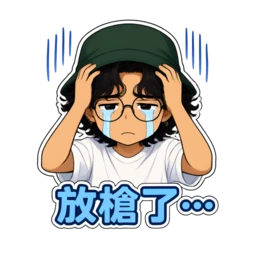
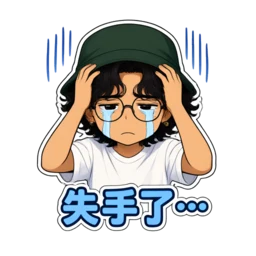
feat(mahjong): 貼圖修錯字、去掉意思重複，玩家可丟已加好友同學的貼圖
- 漢克「編譯過啦！」「精準切音！」重畫：原圖「譯」畫成「繹」、「準」畫成異體「凖」
- 理查 gun／ting／other 改「失手了…」「就差一張！」「下把換我！」，不再跟彥霖重複
- 蓋瑞 gun／ting／call／other 改「跑不動了…」「調好音了！」「輕輕一撥！」「配速不錯喔！」
- 貼圖面板：彥霖一排，再加每位已加好友同學一排；觀戰者也能開
- 連線只傳文字，reactSticker 用 stickerByText 換回同學貼圖，舊版客端顯示文字
- 新增測試：所有貼圖文字不得重複、文字換得回同一張圖；規格同步

diff --git a/src/systems/mahjong/MahjongScene.js b/src/systems/mahjong/MahjongScene.js
@@ -23,7 +23,7 @@ import {
 import { DiceSet } from './Dice.js';
 import { normalizeRoomCode } from './Net.js';
 import { SPECTATE_REACTS, reactSticker } from './P2P.js';
-import { npcReactions, npcSticker } from './NpcStickers.js';
+import { npcReactions, npcSticker, NPC_STICKERS, NPC_STICKER_KINDS } from './NpcStickers.js';
 import { createCharacter, randomStudent } from '../../entities/Character.js';
 import { makeOutfitFigure } from '../Outfits.js';
 
@@ -683,7 +683,7 @@ export class MahjongScene {
       <div class="mj-spec-tags"></div><div class="mj-bubbles"></div>
       <div class="mj-acts"></div><div class="mj-hint"></div><div class="mj-res hidden"></div>
       <div class="mj-pop hidden"><img alt=""><b></b></div><div class="mj-say"></div><div class="mj-wait hidden"></div><div class="mj-timer hidden"></div><div class="mj-zoom hidden"></div><div class="mj-center hidden"></div>
-      <div class="mj-side"><div class="mj-info"></div><div class="mj-side-btns"><button class="mj-view" data-a='{"type":"view"}'></button><button class="mj-stk-btn hidden" data-a='{"type":"stickers"}' title="丟貼圖（T）" aria-label="丟貼圖"><img src="${SPECTATE_REACTS[0].img}" alt=""></button><button class="mj-help-btn" data-a='{"type":"help"}' title="操作說明（I）" aria-label="操作說明">i</button></div><div class="mj-stk hidden">${SPECTATE_REACTS.map((r) => `<button class="mj-react" title="${r.label}" data-a='${JSON.stringify({ type: 'sticker', text: r.text })}'><img src="${r.img}" alt="${r.label}"></button>`).join('')}</div><div class="mj-mp-bar hidden"></div></div>
+      <div class="mj-side"><div class="mj-info"></div><div class="mj-side-btns"><button class="mj-view" data-a='{"type":"view"}'></button><button class="mj-stk-btn hidden" data-a='{"type":"stickers"}' title="丟貼圖（T）" aria-label="丟貼圖"><img src="${SPECTATE_REACTS[0].img}" alt=""></button><button class="mj-help-btn" data-a='{"type":"help"}' title="操作說明（I）" aria-label="操作說明">i</button></div><div class="mj-stk hidden"></div><div class="mj-mp-bar hidden"></div></div>
       <div class="mj-help hidden"></div>
       <div class="mj-hand hidden"></div>
       <div class="mj-rotate hidden"><div><b>📱↻</b><p>把手機轉橫的打，牌比較大</p><button data-a='{"type":"rotateOk"}'>直的也沒關係</button></div></div>`;
@@ -2741,13 +2741,42 @@ export class MahjongScene {
     }
   }
 
-  // ---------------- 打牌中丟貼圖（彥霖貼圖，P2P.js 的 SPECTATE_REACTS） ----------------
-  // 坐在桌上打牌的人（單人模式，或多人模式上桌的人）才有；觀戰者用右上角那排表情（_mpBarHud）
+  // ---------------- 丟貼圖（彥霖貼圖＋已加好友同學的貼圖，NpcStickers.js） ----------------
+  // 上桌打牌的人和觀戰者都有（觀戰者另外還有右上角那排彥霖表情，_mpBarHud）
   _canSticker() {
-    return !!this.e && !this.intro && !this.menu && !this.lobby && !this.mj.sess?.spectating;
+    return !!this.e && !this.intro && !this.menu && !this.lobby;
+  }
+  // 面板每次打開時重畫：彥霖一排，再來每位已加好友（src/ui/phone/Friends.js）的同學一排
+  _stickerRows() {
+    const btn = (text, img, label) =>
+      `<button class="mj-react" title="${esc(label)}" data-a='${JSON.stringify({ type: 'sticker', text })}'><img src="${img}" alt="${esc(label)}" loading="lazy"></button>`;
+    const row = (name, btns) =>
+      `<div class="mj-stk-row"><span>${esc(name)}</span><div>${btns.join('')}</div></div>`;
+    const friends = this.g.friends?.added;
+    const rows = [
+      row(
+        '彥霖',
+        SPECTATE_REACTS.map((r) => btn(r.text, r.img, r.label))
+      ),
+    ];
+    for (const r of this.mj.roster || []) {
+      if (!friends?.has?.(r.id) || !NPC_STICKERS[r.id]) continue;
+      rows.push(
+        row(
+          r.name,
+          NPC_STICKER_KINDS.map((k) => {
+            const st = npcSticker(r.id, k);
+            return btn(st.label, st.img, st.label);
+          })
+        )
+      );
+    }
+    return rows.join('');
   }
   _stickerMenu(open = this.$('.mj-stk').classList.contains('hidden')) {
-    this.$('.mj-stk').classList.toggle('hidden', !open);
+    const el = this.$('.mj-stk');
+    if (open) el.innerHTML = this._stickerRows();
+    el.classList.toggle('hidden', !open);
     this.$('.mj-stk-btn').classList.toggle('on', open);
   }
   _sendSticker(text) {

diff --git a/src/systems/mahjong/NpcStickers.js b/src/systems/mahjong/NpcStickers.js
@@ -1,6 +1,8 @@
 // 單人模式：一起打牌的同學在牌局中會自己跳表情貼圖（assets/mahjong/npc/<id>-<kind>.webp，
 // 家裡 GPU 的 Qwen-Image 照各自的 3D 外觀畫的，每個人一組、文字照個性寫）。
 // kind：hu 自己胡、gun 自己放槍、ting 剛聽牌、call 碰／槓、other 別人胡（不是自己放的槍）
+// 所有貼圖（含彥霖那 5 張，P2P.js 的 SPECTATE_REACTS）的文字都不能重複，意思也盡量不要太像：
+// 玩家可以丟已加好友同學的貼圖，連線時只傳文字，收到的人靠文字換回是哪張圖（stickerByText）
 export const NPC_STICKER_KINDS = ['hu', 'gun', 'ting', 'call', 'other'];
 
 export const NPC_STICKERS = {
@@ -46,13 +48,13 @@ export const NPC_STICKERS = {
     call: '變走囉！',
     other: '幫你記帳！',
   },
-  richard: { hu: '胡了！', gun: '放槍了…', ting: '聽牌！', call: '碰！', other: '好牌！' },
+  richard: { hu: '胡了！', gun: '失手了…', ting: '就差一張！', call: '碰！', other: '下把換我！' },
   garry: {
     hu: '承讓囉！',
-    gun: '哎呀放槍了',
-    ting: '我聽牌囉！',
-    call: '這張先收囉',
-    other: '打得漂亮！',
+    gun: '跑不動了…',
+    ting: '調好音了！',
+    call: '輕輕一撥！',
+    other: '配速不錯喔！',
   },
 };
 
@@ -60,6 +62,14 @@ export const NPC_STICKERS = {
 export function npcSticker(id, kind) {
   const label = NPC_STICKERS[id]?.[kind];
   return label ? { img: `assets/mahjong/npc/${id}-${kind}.webp`, label } : null;
+}
+
+// 文字 → 同學貼圖（連線收到的貼圖、玩家自己丟的同學貼圖都靠這個換回圖）；不認得就 null
+export function stickerByText(text) {
+  for (const id in NPC_STICKERS)
+    for (const k of NPC_STICKER_KINDS)
+      if (NPC_STICKERS[id][k] === text) return { id: `${id}-${k}`, text, ...npcSticker(id, k) };
+  return null;
 }
 
 // 一個牌局事件該讓哪些座位跳哪種貼圖：回傳 [{ seat, kind, delay }]（delay 秒）。

diff --git a/tests/unit/mahjong-npc-stickers.test.js b/tests/unit/mahjong-npc-stickers.test.js
@@ -7,7 +7,9 @@ import {
   NPC_STICKER_KINDS,
   npcReactions,
   npcSticker,
+  stickerByText,
 } from '../../src/systems/mahjong/NpcStickers.js';
+import { SPECTATE_REACTS, reactSticker } from '../../src/systems/mahjong/P2P.js';
 
 const ids = [null, 'zz', 'houshe', 'jianyu'];
 const always = () => 0; // rnd：每個機率都會中
@@ -22,6 +24,21 @@ describe('同學表情貼圖', () => {
         expect(fs.existsSync(path.resolve(st.img))).toBe(true);
       }
     }
+  });
+
+  it('所有貼圖文字都不重複（含彥霖的），連線傳文字換得回同一張圖', () => {
+    const all = [
+      ...SPECTATE_REACTS.flatMap((r) => [r.text, r.label]),
+      ...Object.values(NPC_STICKERS).flatMap((set) => Object.values(set)),
+    ];
+    expect(new Set(all).size).toBe(all.length);
+    for (const id in NPC_STICKERS)
+      for (const k of NPC_STICKER_KINDS) {
+        const st = npcSticker(id, k);
+        expect(stickerByText(st.label)?.img).toBe(st.img);
+        expect(reactSticker(st.label)?.img).toBe(st.img);
+      }
+    expect(stickerByText('隨便講講')).toBeNull();
   });
 
   it('胡牌：胡的人跳「胡」、放槍的人跳「放槍」、其他同學可能跳「別人胡」', () => {

diff --git a/src/systems/mahjong/P2P.js b/src/systems/mahjong/P2P.js
@@ -12,6 +12,7 @@ import {
   unrotateSeat,
 } from './Net.js';
 import { normalizeLook } from '../OutfitData.js';
+import { stickerByText } from './NpcStickers.js';
 
 const APP_ID = 'yanlin-gta-mahjong-v1';
 const peerIdOf = (ctx) => (typeof ctx === 'string' ? ctx : ctx?.peerId || null);
@@ -25,7 +26,9 @@ export const SPECTATE_REACTS = [
   { id: 'lol', text: '😂 笑死', label: '笑死' },
   { id: 'pray', text: '🙏 自摸！', label: '自摸！' },
 ].map((r) => ({ ...r, img: `assets/mahjong/react-${r.id}.webp` }));
-export const reactSticker = (text) => SPECTATE_REACTS.find((r) => r.text === text) || null;
+// 同學貼圖（玩家丟已加好友同學的貼圖）傳的是貼圖上的字，一樣換得回圖；舊版客端收到就顯示文字
+export const reactSticker = (text) =>
+  SPECTATE_REACTS.find((r) => r.text === text) || stickerByText(text);
 
 // 封裝 trystero@0.27 MessageAction（{ send(data, { target }), onMessage(cb(data, ctx)) }）
 function bindAction(room, name) {

diff --git a/src/styles/style.css b/src/styles/style.css
@@ -8701,17 +8701,41 @@ body.mahjong #dialog {
 #mjUI .mj-stk {
   pointer-events: auto;
   display: flex;
+  flex-direction: column;
   gap: 4px;
-  justify-content: flex-end;
   margin-top: 6px;
   padding: 6px;
+  max-height: min(60vh, 420px);
+  overflow-y: auto;
   border-radius: 14px;
   background: rgba(0, 0, 0, 0.55);
 }
+#mjUI .mj-stk.hidden {
+  display: none;
+}
+/* 一位一排：左邊名字，右邊 5 張（彥霖＋已加好友的同學） */
+#mjUI .mj-stk-row {
+  display: flex;
+  align-items: center;
+  gap: 6px;
+  justify-content: flex-end;
+}
+#mjUI .mj-stk-row > span {
+  flex: none;
+  min-width: 3.2em;
+  color: #fff;
+  font-size: 12px;
+  opacity: 0.85;
+  text-align: right;
+}
+#mjUI .mj-stk-row > div {
+  display: flex;
+  gap: 4px;
+}
 #mjUI .mj-stk button.mj-react {
   padding: 2px;
-  width: 58px;
-  height: 58px;
+  width: 52px;
+  height: 52px;
   border-radius: 12px;
   background: rgba(255, 255, 255, 0.12);
   transition: transform 0.12s ease;

diff --git a/src/systems/mahjong/Mahjong.js b/src/systems/mahjong/Mahjong.js
@@ -146,6 +146,7 @@ export const BANTER = {
 
 export class DormMahjong {
   constructor(game) {
+    this.roster = ROSTER; // (MahjongScene 的貼圖面板用：同學名字與順序)
     this.g = game;
     this.state = null; // null | 'gather' | 'play'
     this.party = [];

diff --git a/docs/specs/gameplay-and-ui.md b/docs/specs/gameplay-and-ui.md
@@ -107,8 +107,8 @@
 - **揪牌咖優先序（揪力行宿舍 7 位劇情室友：吱吱、侯舌、劍玉、漢克、肉舖老闆、霍華德、理查，加上住彥霖隔壁的蓋瑞；蓋瑞不住力行，只會被算成「在外面」或「在睡覺」，排在最後）**：
   1. 醒著在寢室者（遊戲時間 `1.5 分鐘` 抵達）$\rightarrow$ 2. 醒著在校外／打工／顧店／約會／兜風者（電話叫回，`10 分鐘` 抵達）$\rightarrow$ 3. 熟睡中者（敲門叫醒，`4 分鐘` 抵達），同狀態依寢室距 277 遠近排序；等待期間再按 `E` 可快轉時間。
 - **跨系統作息暫停連動**：室友上桌期間（`g.mahjong.has(id)`）原訂作息全面暫停——肉舖老闆在場時戈登肉鋪櫃台無人無法結帳、漢克在場時麥當勞薯條爐空缺、吱吱在場時茶學苑由一般店員顧店（若正與 Yulu 散步則 Yulu 自行返回）；散場後依當下時鐘歸位。打到一半連按兩次 `Esc` 中離會觸發「舍監查寢」，該局不計輸贏。
-- **同學表情貼圖（單人模式，`NpcStickers.js`）**：每位室友（含蓋瑞）一組 5 張專屬貼圖（`assets/mahjong/npc/<id>-<kind>.webp`，文字依個性；理查用一般用語）。時機由 `npcReactions` 決定：自己胡 `hu`（必跳）、放槍 `gun`（必跳）、其他人胡 `other`（各 50%）、明碰／明槓 `call`（45%）、打完牌剛聽牌 `ting`（每局最多一次、50%）；暗槓不跳、你自己不跳，多人模式不跳。貼圖以 `showReaction` 泡泡顯示在該座位上方。
-- **玩家丟貼圖（`_canSticker` / `_stickerMenu` / `_sendSticker`）**：坐在桌上打牌時（單人模式或多人模式上桌者），按 `T` 或右上角貼圖按鈕開面板，選一張彥霖貼圖（同觀戰的 5 張）顯示在自己座位上方；單人模式 1 秒內不能連丟。多人模式沿用既有 `react` 協定（只傳文字，由 `reactSticker` 換圖，相容舊版客端）；觀戰者不顯示此按鈕，改用原本的表情列。
+- **同學表情貼圖（單人模式，`NpcStickers.js`）**：每位室友（含蓋瑞）一組 5 張專屬貼圖（`assets/mahjong/npc/<id>-<kind>.webp`，文字依個性；理查用一般用語；圖上的字須逐字核對，不能有錯字、異體字或糊成一團）。時機由 `npcReactions` 決定：自己胡 `hu`（必跳）、放槍 `gun`（必跳）、其他人胡 `other`（各 50%）、明碰／明槓 `call`（45%）、打完牌剛聽牌 `ting`（每局最多一次、50%）；暗槓不跳、你自己不跳，多人模式不跳。貼圖以 `showReaction` 泡泡顯示在該座位上方。
+- **玩家丟貼圖（`_canSticker` / `_stickerRows` / `_sendSticker`）**：上桌打牌者與觀戰者都可以按 `T` 或右上角貼圖按鈕開面板；面板第一排是彥霖貼圖（同觀戰的 5 張），之後每位**已加好友**（`g.friends.added`）且有貼圖的同學各一排、5 張。貼圖顯示在自己座位（觀戰者則在自己頭上）；單人模式 1 秒內不能連丟。多人模式沿用既有 `react` 協定只傳文字，收到時由 `reactSticker`（彥霖）／`stickerByText`（同學）換回圖，舊版客端則顯示文字；因此**所有貼圖文字不得重複**（單元測試把關），意思也盡量不要相近。觀戰者原本右上角那排彥霖表情保留。
 
 ### 2. 台灣 16 張規則、過水與暗槓遮罩契約 (`Rules.js` / `Engine.js` / `MahjongScene.js`)
 - **抓位、定莊與開門**：144 張含 8 花、留 16 張海底；每將抽東南西北風牌逆時針換位、東家擲 3 顆中式骰子定起莊，每局莊家擲 3 顆骰子依點數決定開門牌牆與墩數，採**順抓逆打**，打完北風北（換莊 16 次）為一將。
